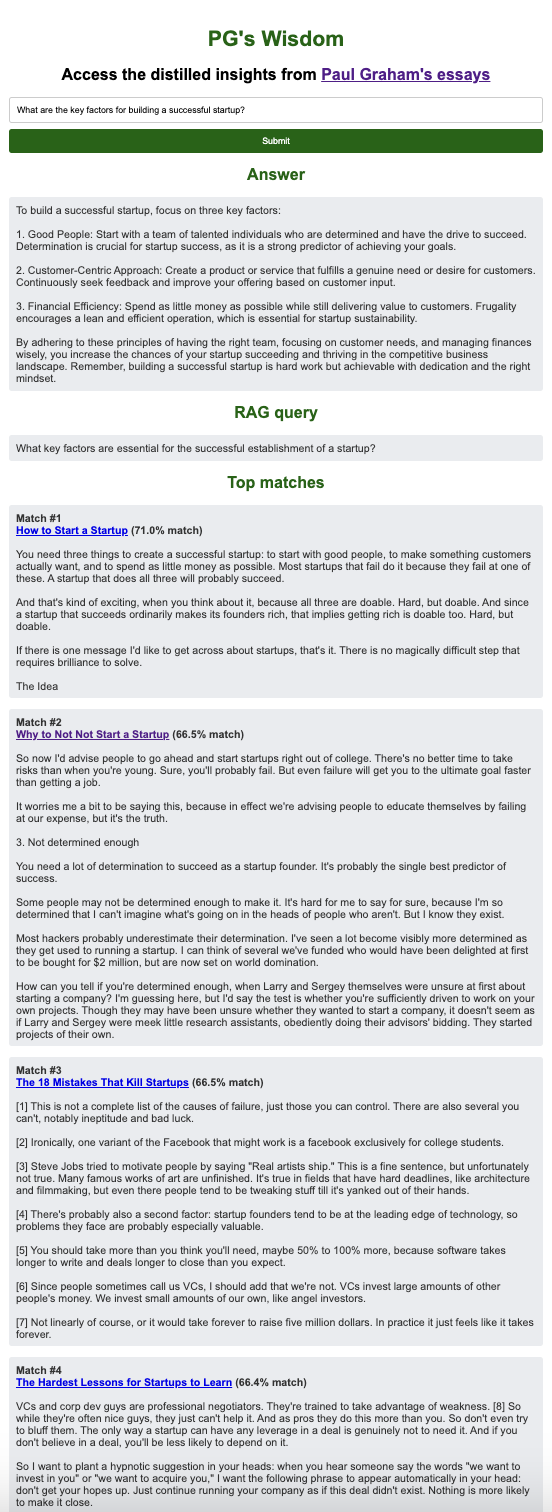
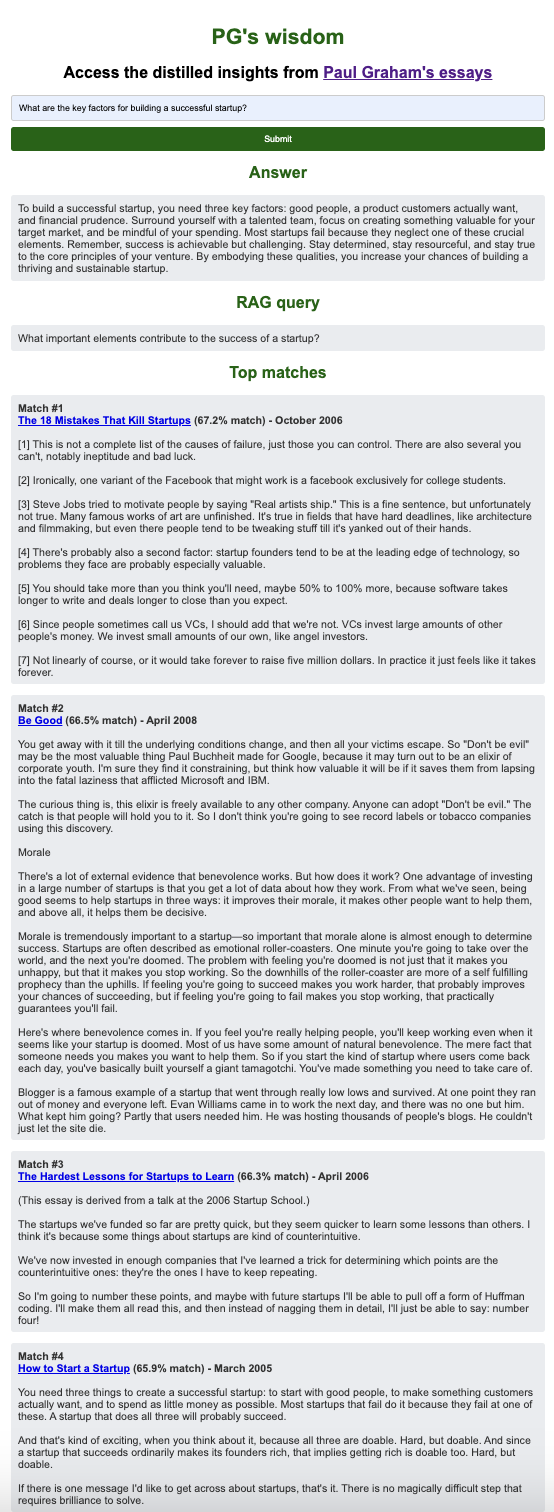
Minor fixes, e.g. not using overly complicated language for the RAG query

Changed region(s): [[0.0, 0.0, 0.9855, 1.0]]

diff --git a/templates/index.html b/templates/index.html
@@ -8,7 +8,7 @@
 </head>
 <body>
     <div class="container">
-        <h1>PG's Wisdom</h1>
+        <h1>PG's wisdom</h1>
         <h2>Access the distilled insights from <a href="http://www.paulgraham.com/articles.html" target="_blank">Paul Graham's essays</a></h2>
         <form id="query-form">
             <input type="text" id="query" name="query" placeholder="Enter your question...">

diff --git a/modules/query_rewriter.py b/modules/query_rewriter.py
@@ -6,7 +6,7 @@ def rewrite_query(query, client):
     model="gpt-3.5-turbo",
     messages=[
         {"role": "system", "content": "You are a helpful and knowledgeable assistant."},
-        {"role": "user", "content": f"Rewrite the query in an informative way, perfect for Retrial Augmented Generation (RAG) models. Only return the query.\nQ: {query}\nRAG query: "},
+        {"role": "user", "content": f"Rewrite the query in an informative way, perfect for Retrial Augmented Generation (RAG) models. Do not overcomplicate the language, use simple-to-understand words. Only return the query.\nQ: {query}\nRAG query: "},
     ]
     )
     return completion.choices[0].message.content
